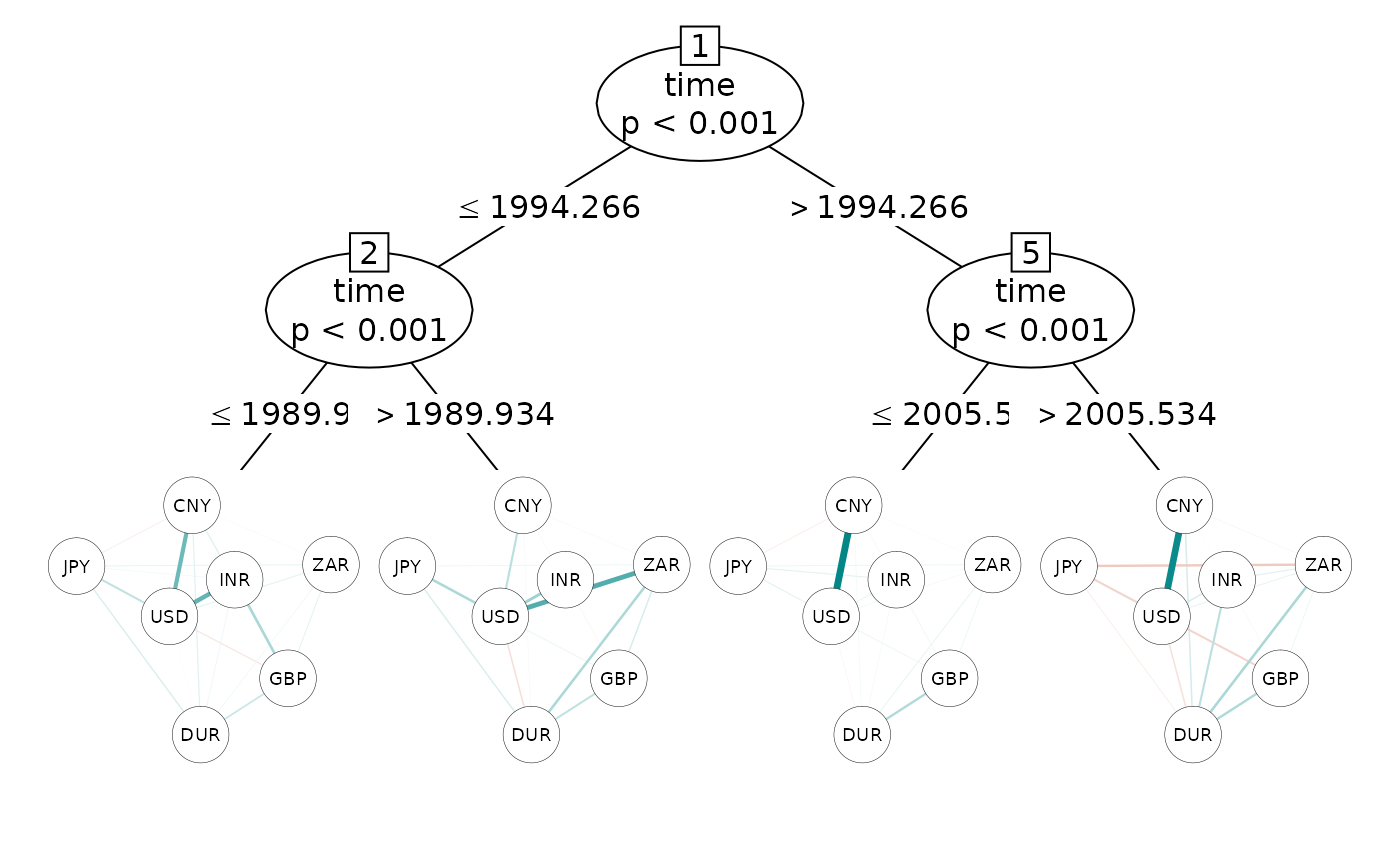
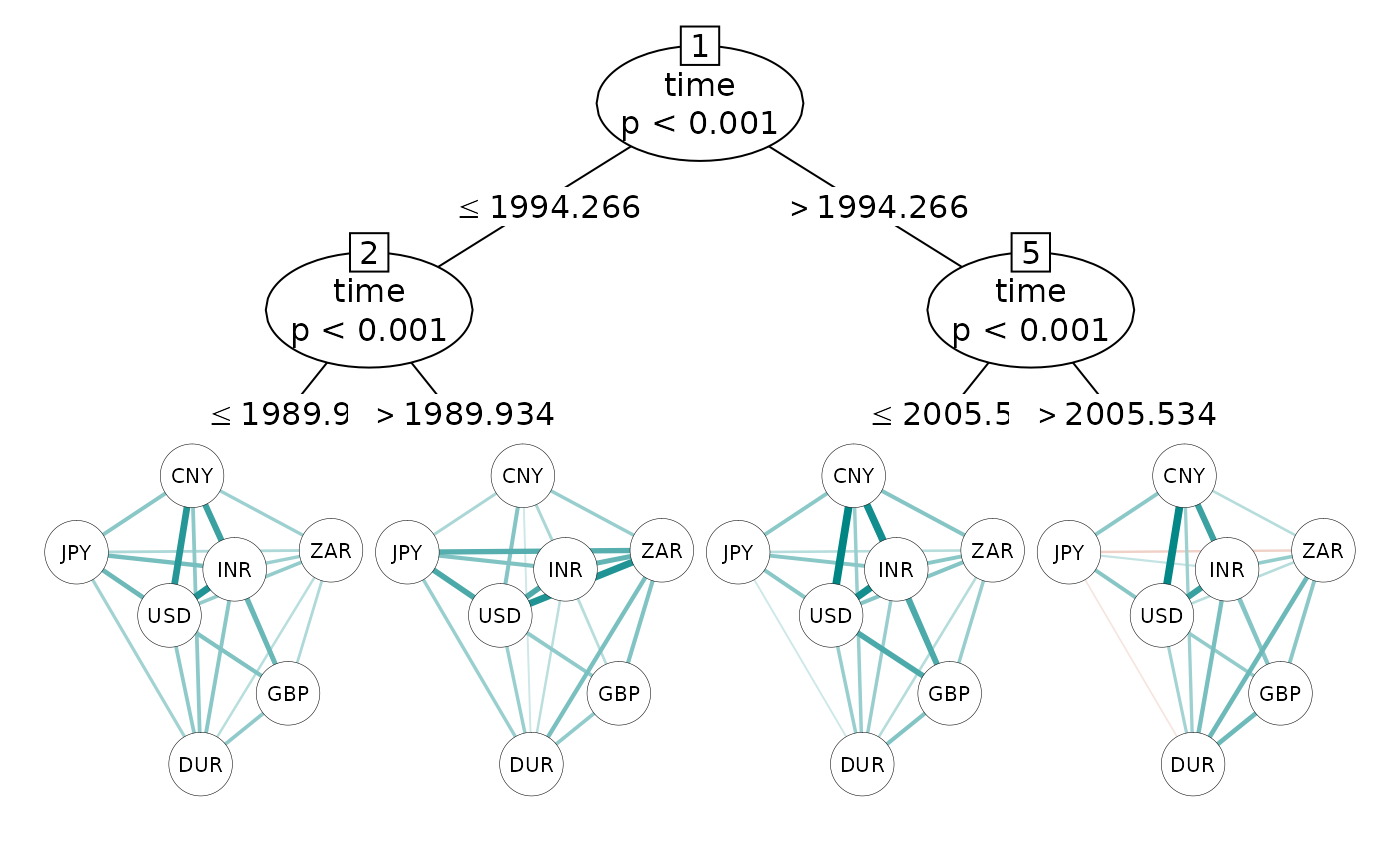
Tune figure

Changed region(s): [[0.0307, 0.5306, 0.9829, 0.9052]]

diff --git a/docs/articles/returns.html b/docs/articles/returns.html
@@ -89,7 +89,7 @@
       <h1 data-toc-skip>Exchange Rates Networks</h1>
                         <h4 class="author">Thorsten Simon, Payton J. Jones, Patrick Mair, and Achim Zeileis</h4>
             
-            <h4 class="date">2020-12-07</h4>
+            <h4 class="date">2020-12-11</h4>
       
       <small class="dont-index">Source: <a href="http://github.com/paytonjjones/networktree/blob/master/vignettes/returns.Rmd"><code>vignettes/returns.Rmd</code></a></small>
       <div class="hidden name"><code>returns.Rmd</code></div>
@@ -151,7 +151,7 @@
 <span class="va">returns</span> <span class="op">&lt;-</span> <span class="fu"><a href="https://rdrr.io/r/stats/na.fail.html">na.omit</a></span><span class="op">(</span><span class="va">returns</span><span class="op">)</span></code></pre></div>
 <div class="sourceCode" id="cb2"><pre class="downlit sourceCode r">
 <code class="sourceCode R"><span class="fu"><a href="https://rdrr.io/r/graphics/plot.default.html">plot</a></span><span class="op">(</span><span class="va">returns</span><span class="op">)</span></code></pre></div>
-<p><img src="returns_files/figure-html/look-at-data-1.png" width="700"></p>
+<p><img src="returns_files/figure-html/look-at-data-1.png" width="100%" style="display: block; margin: auto;"></p>
 <p>A quick look reveals that data are on hand from 1981-01-09 to 2010-02-12. Over the whole period the mean of each time series is around zero. Further the spread for each time series is relatively constant over time. However, the correlation structure between these seven variables might change within this period of time.</p>
 <p>Before modelling the <em>networktree</em> we compute a numeric variable for the decimal time and put it in a column <code>time</code>, and for illustration we also add a nosie variable <code>foo</code>. Obviously, one can expect that <code>time</code> will be selected for splitting the data, but <code>foo</code> will not be selected.</p>
 <div class="sourceCode" id="cb3"><pre class="downlit sourceCode r">
@@ -196,7 +196,7 @@
 <p>The <code><a href="https://rdrr.io/r/base/print.html">print()</a></code> method gives the partitioning of the data and the fitted coefficients which are the correlations between the exchange return rates of the different currencies. As expected only <code>time</code> was selected for splitting the data. In the first node the data are splitted in April 1994. Then in the second and fifth node the remaining data is splitted in December 1989 and July 2005, respectively.</p>
 <div class="sourceCode" id="cb7"><pre class="downlit sourceCode r">
 <code class="sourceCode R"><span class="fu"><a href="https://rdrr.io/r/graphics/plot.default.html">plot</a></span><span class="op">(</span><span class="va">tr</span>, transform <span class="op">=</span> <span class="st">"pcor"</span>, posCol <span class="op">=</span> <span class="st">"#008585"</span>, negCol <span class="op">=</span> <span class="st">"#C7522B"</span>, maximum <span class="op">=</span> <span class="fl">1</span><span class="op">)</span></code></pre></div>
-<p><img src="returns_files/figure-html/plt-cmd-1.png" width="700"></p>
+<p><img src="returns_files/figure-html/plt-1.png" width="100%" style="display: block; margin: auto;"></p>
 <p>The <code><a href="https://rdrr.io/r/graphics/plot.default.html">plot()</a></code> method uses <code>qgraph()</code> of the <strong>qgraph</strong> package <span class="citation">(Epskamp et al. 2012)</span> for visualizing the networks in the terminal nodes. Thus we can choose between looking at the correlations <code>type = "cor"</code> or at the partial correlations <code>type = "pcor"</code>.</p>
 <p>The partial correlation reveals a very strong link between the Chinese Yuan and the US Dollar after April 1994, but a weaker link before that point of time.</p>
 <p>The split which was found in the second part of the data was July 2005 which coincide with an announcement of the People’s Bank of China (PBC) to shift away from a fixed exchange rate to the US Dollar to a basket of currencies with greater flexibility <span class="citation">(Zeileis, Shah, and Patnaik 2010)</span>. Earlier studies also found that CNY was still strongly coupled to the USD after July 2005 <span class="citation">(Zeileis, Shah, and Patnaik 2010)</span>. However, the split detected in mid 2005 by the <em>networktree</em> does not show a big change in the coupling of CNY to USD, but reveals that coupling of Indian Rupee, Chinese Yuan, and South African Rand to the Euro increased.</p>
